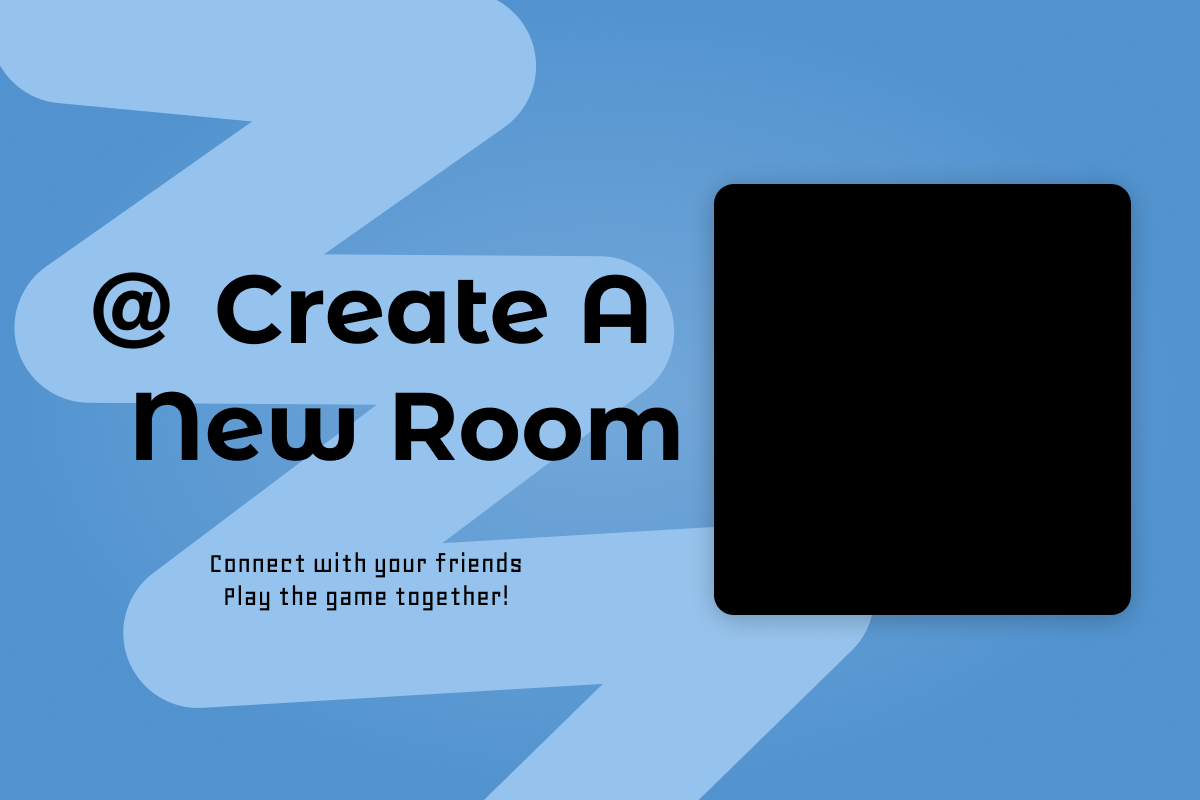
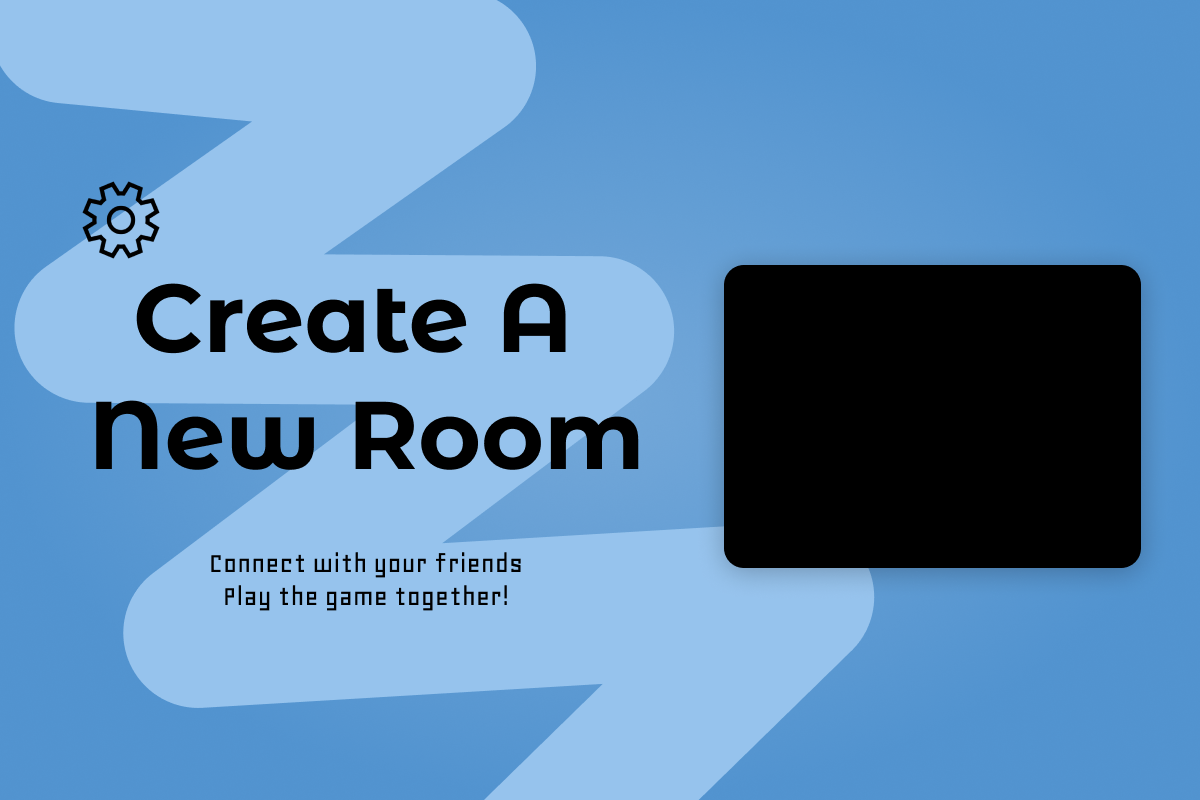
some minor changes in gui

Changed region(s): [[0.0617, 0.2188, 0.9558, 0.7812], [0.0617, 0.2188, 0.555, 0.4375]]

diff --git a/GUI_Customtkinter.py b/GUI_Customtkinter.py
@@ -112,7 +112,7 @@ class GUI:
             bg_color="#000000",
             fg_color="#000000",
             )
-        frame.place(x=900,y=264,anchor="n")
+        frame.place(x=932.5,y=295,anchor="n")
 
         # create entry
         room_name_entry = labeled_entry(frame,"ENTER ROOM NAME",self.color_tertiary,self.color_on_tertiary)
@@ -155,7 +155,7 @@ class GUI:
             bg_color="#000000",
             fg_color="#000000",
             )
-        frame.place(x=900,y=264,anchor="n")
+        frame.place(x=932.5,y=295,anchor="n")
 
         # create entry
         room_name_entry = labeled_entry(frame,"ENTER ROOM NAME",self.color_tertiary,self.color_on_tertiary)
@@ -302,8 +302,8 @@ class GUI:
 if __name__ == "__main__":
     g = GUI('','','','')
     # g.start_page()
-    # g.join_page()
+    g.join_page()
     # g.create_page()
     # g.choose_identity_page()
     # g.confirm_respondent_page()
-    g.confirm_question_setter_page()
+    # g.confirm_question_setter_page()
